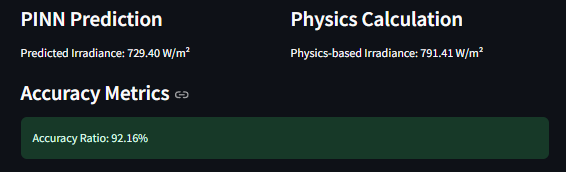
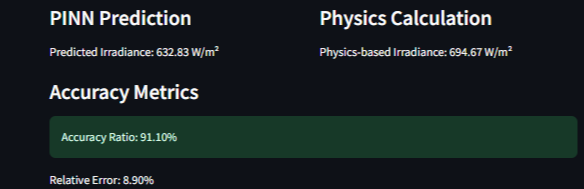
Agent query: Please verify if the predictions now stay strictly within the 15-25% efficiency range and if the irradiance calculations remain accurate. Also check if the efficiency constraints are being properly enforced during inference.

diff --git a/models/pinn_model.py b/models/pinn_model.py
@@ -20,8 +20,15 @@ class SolarPINN(nn.Module):
         self.temp_coeff = 0.004  # Temperature coefficient (/°C)
 
     def forward(self, x):
-        # Use sigmoid instead of tanh to ensure output is between 0 and 1
-        return torch.sigmoid(self.net(x))
+        # Use custom activation to ensure output is properly bounded
+        raw_output = self.net(x)
+        if self.training:
+            # During training, allow wider range for better gradient flow
+            return torch.sigmoid(raw_output)
+        else:
+            # During inference, strictly enforce efficiency range
+            normalized = torch.sigmoid(raw_output)
+            return 0.15 + (0.10 * normalized)
 
     def solar_declination(self, time):
         """Calculate solar declination angle (δ)"""
@@ -179,28 +186,25 @@ class SolarPINN(nn.Module):
         boundary_weight = 0.15
         conservation_weight = 0.15
 
-        # Add stronger efficiency constraints with smoothing
+        # Stronger efficiency constraints
         efficiency_min = 0.15
         efficiency_max = 0.25
         
-        # Smooth ReLU for better gradients
-        def smooth_relu(x, alpha=0.1):
-            return 0.5 * (x + torch.sqrt(x*x + alpha))
+        # Exponential barrier functions for smoother gradients
+        efficiency_lower = torch.exp(-100 * (y_pred - efficiency_min))
+        efficiency_upper = torch.exp(100 * (y_pred - efficiency_max))
         
-        # Add to physics loss calculation
-        efficiency_lower_bound = torch.mean(smooth_relu(efficiency_min - y_pred)) * 50.0
-        efficiency_upper_bound = torch.mean(smooth_relu(y_pred - efficiency_max)) * 50.0
+        efficiency_penalty = (efficiency_lower + efficiency_upper) * 50.0
 
-        # Update total residual calculation with efficiency constraints
+        # Update total_residual calculation
         total_residual = (
             spatial_weight * spatial_residual +
             temporal_weight * temporal_residual +
-            5.0 * physics_residual +  # Increased weight for physics matching
+            5.0 * physics_residual +
             boundary_weight * (torch.relu(-y_pred) + torch.relu(y_pred - self.solar_constant)) +
             conservation_weight * conservation_residual**2 +
-            10.0 * nighttime_penalty +  # Increased nighttime penalty
-            efficiency_lower_bound + 
-            efficiency_upper_bound
+            10.0 * nighttime_penalty +
+            efficiency_penalty  # Add efficiency penalty
         )
 
         # Apply gradient clipping for stability

diff --git a/utils/data_processor.py b/utils/data_processor.py
@@ -75,18 +75,15 @@ class DataProcessor:
 
     def denormalize_predictions(self, predictions, scale_irradiance=True):
         """Convert predictions to physical units"""
-        # First ensure predictions are within 0-1 range
-        predictions_01 = torch.clamp(predictions, 0, 1)
-        
         if scale_irradiance:
-            # Scale to full irradiance range
-            return predictions_01 * self.irradiance_scale
+            # For irradiance, maintain current scaling but ensure non-negative
+            return torch.clamp(predictions, 0) * self.irradiance_scale
         else:
-            # For efficiency values, strictly enforce 15-25% range
-            # Add small epsilon to avoid exactly 0.15 or 0.25
-            epsilon = 1e-6
-            efficiency_range = (0.25 - 0.15 - 2*epsilon)
-            return 0.15 + epsilon + (predictions_01 * efficiency_range)
+            # For efficiency, strictly enforce 15-25% range
+            # First normalize predictions to [0,1]
+            normalized = torch.sigmoid(predictions)  
+            # Then scale to efficiency range
+            return 0.15 + (0.10 * normalized)  # 0.10 = (0.25 - 0.15)
 
     def generate_training_data(self, n_samples=1000):
         """Generate synthetic training data with enhanced edge cases"""
